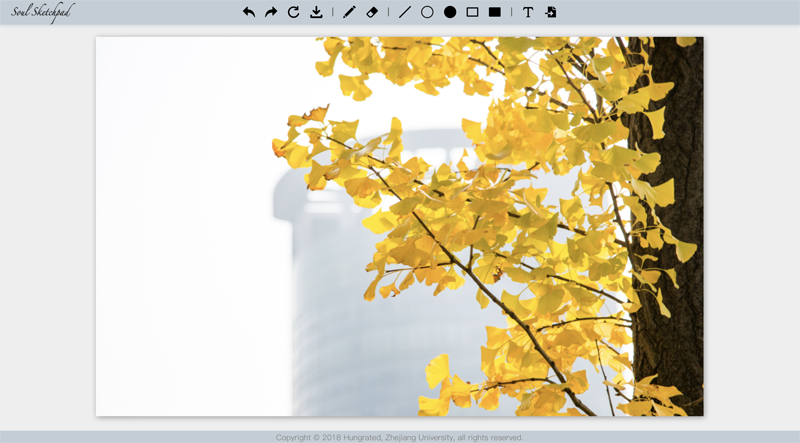
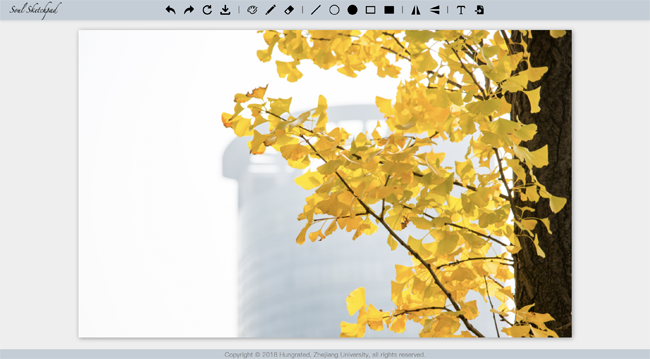
master: update readme

diff --git a/README.md b/README.md
@@ -3,3 +3,25 @@
 A web sketchpad of soul, based on HTML5 & Canvas.
 
 ![demo](./doc/demo.png)
+
+### Features
+
+* free brush
+
+* eraser
+
+* color selector
+
+* draw lines
+
+* draw circles
+
+* draw rectangles
+
+* add text
+
+* flip sketchpad
+
+* import & export images
+
+* undo & redo & refresh operations
